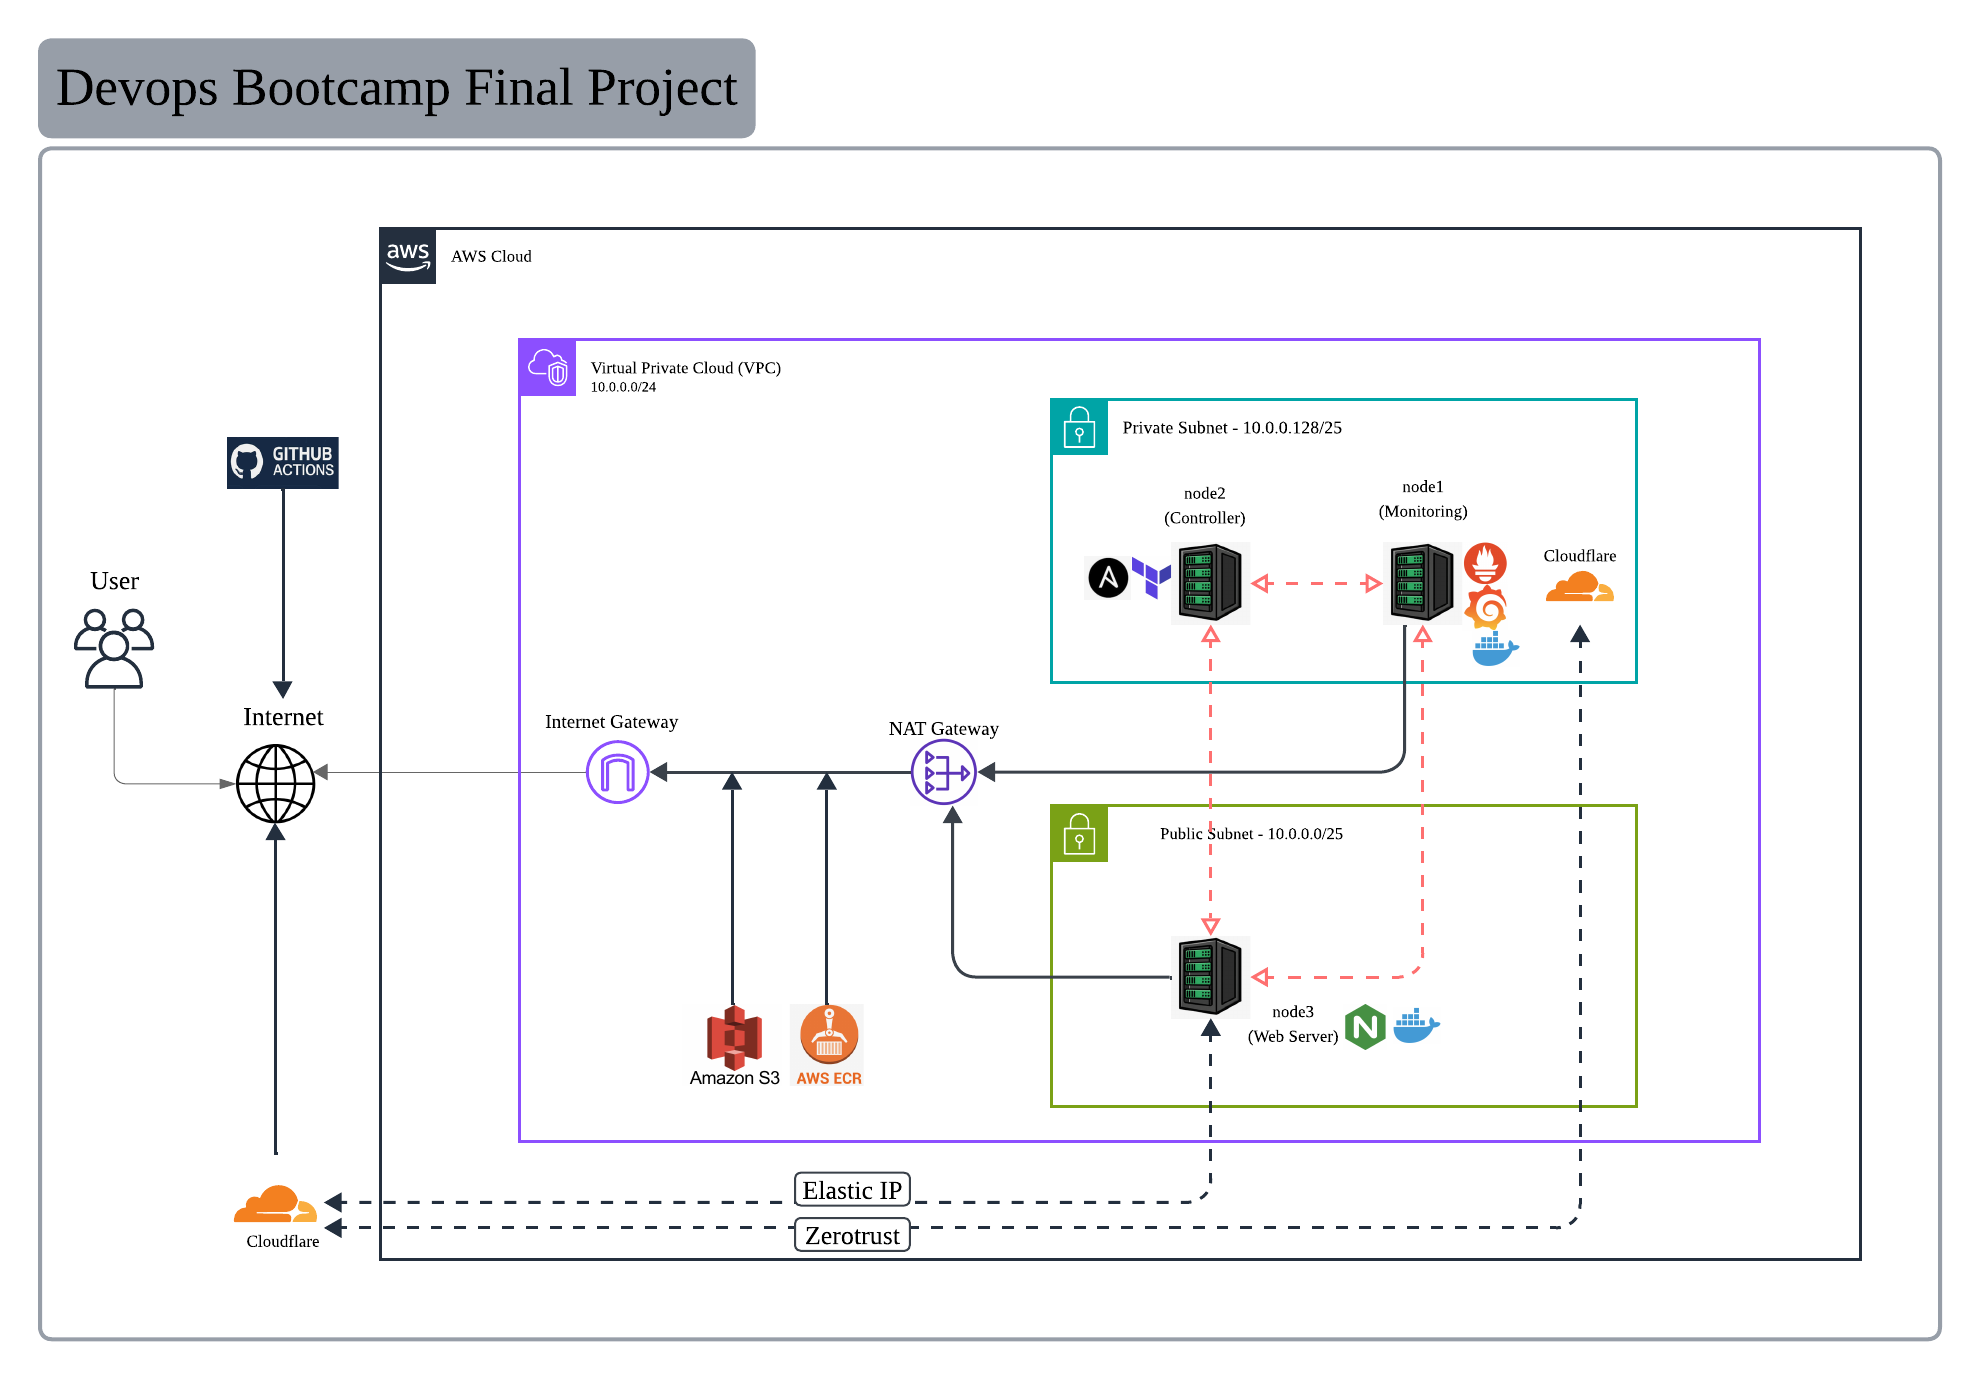
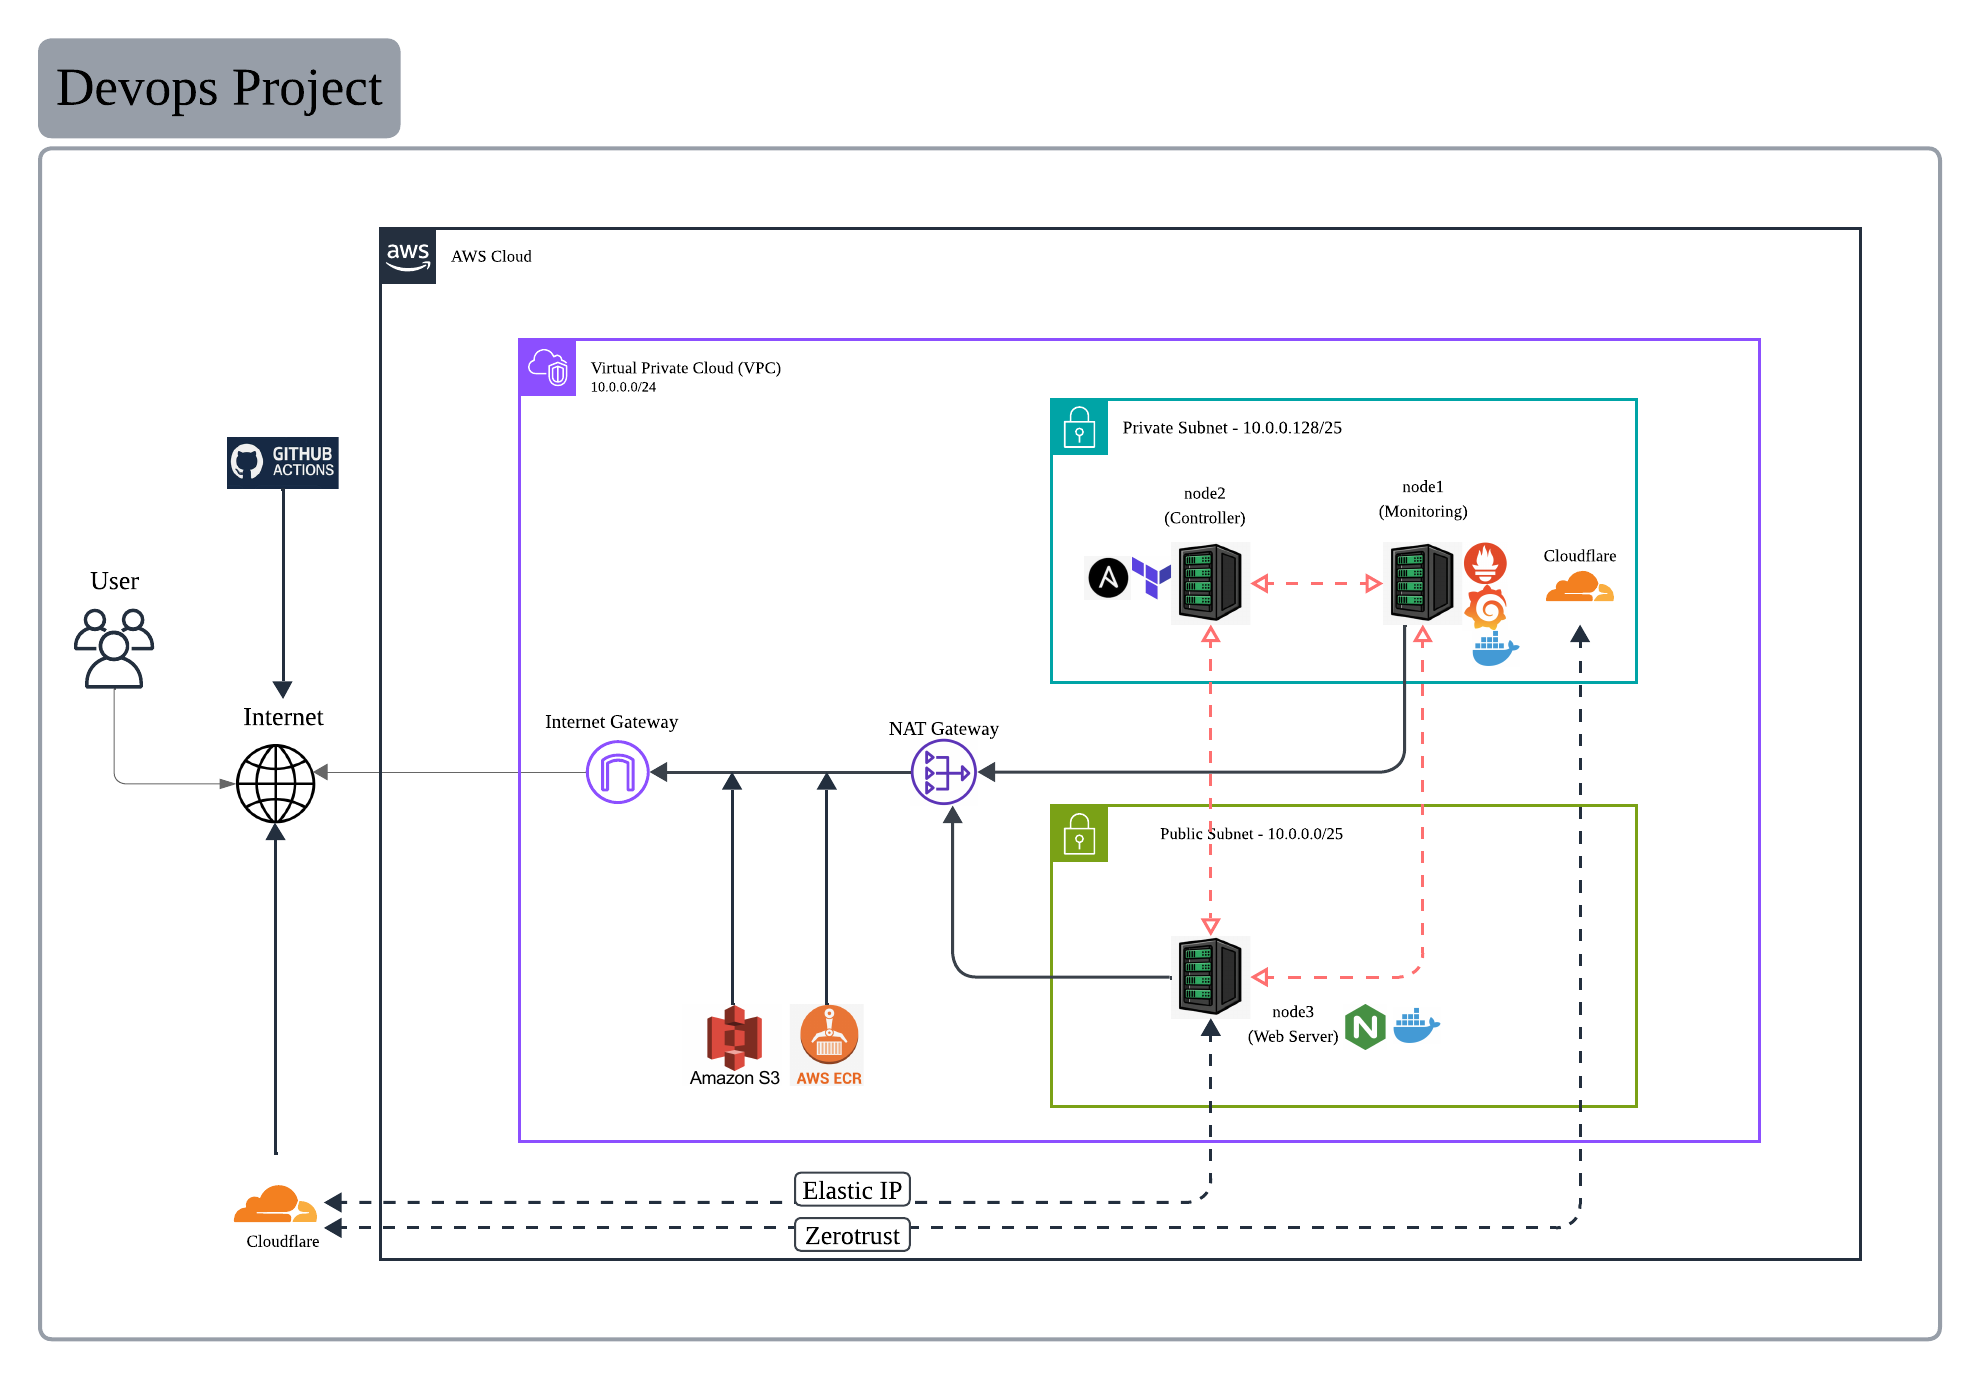
Update Diagram

Changed region(s): [[0.1232, 0.0, 0.4005, 0.1246]]

diff --git a/README.MD b/README.MD
@@ -1,6 +1,6 @@
-# DevOps Bootcamp Project
+# DevOps Project
 
-Final project for the DevOps bootcamp. It sets up cloud infrastructure using **Infrastructure as Code (IaC)**:
+DevOps project to sets up cloud infrastructure using **Infrastructure as Code (IaC)**:
 
 - **Terraform** — creates the AWS infrastructure
 - **Ansible** — configures the servers
@@ -96,7 +96,7 @@ Inventory: `terraform/inventory.ini` (generated by Terraform). Settings are in `
 
 `playbook-web.yaml` is the current deployment path: it installs the AWS CLI if needed, logs in to **Amazon ECR** and pulls
 `569215999117.dkr.ecr.ap-southeast-1.amazonaws.com/devops-bootcamp/final-project-yusof:latest`, then runs it as the `web`
-container on port 80 with `restart: unless-stopped`. Any earlier container already bound to port 80 is removed first.
+container on port 80.
 
 `ansible/compose-web.yaml` is a lighter, static-nginx alternative (mounts `html/` and `default.conf`) that maps port 80.
 
@@ -191,13 +191,6 @@ The pipeline **monitors changes to the docs and keeps both files in sync**:
 
 The content window of `index.html` lives between `<!-- SYNC:START -->` and `<!-- SYNC:END -->` (the hero, styles, and footer stay untouched). Once synced, the generated file is **auto-committed back to `main`** by the `github-actions[bot]`, and the push triggers a Pages redeploy via `static.yml`, so the site always reflects the README.
 
-Run the sync locally at any time:
-
-```bash
-npm install        # first time only
-npm run sync:docs  # dry-run (shows what would change)
-npm run sync:docs -- --write  # persist changes
-```
 
 ## Notes
 
